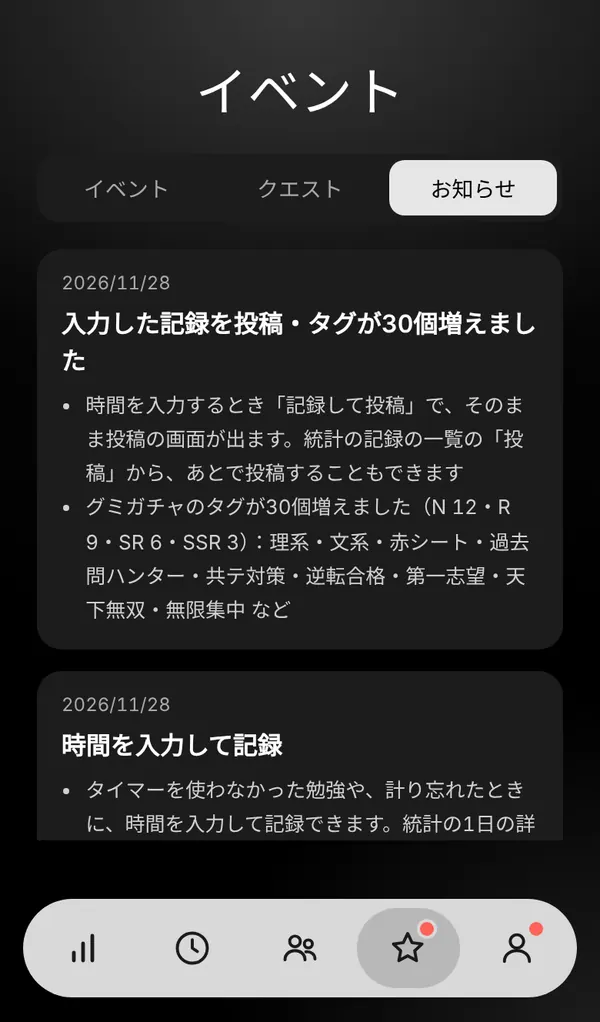
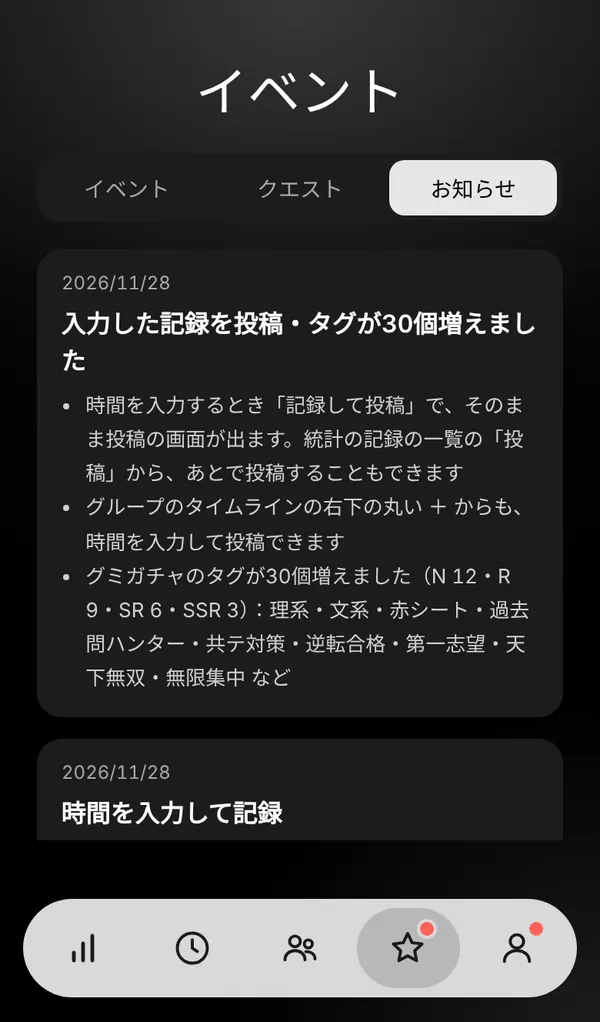
タイムラインの右下に「時間を入力して投稿」の丸いボタン
- グループのタイムラインの右下に丸い ＋（スクロールしても右下に残る）。押すと時間を入力する画面（記録して投稿）
- 使い方・お知らせに追記

Claude-Session: https://claude.ai/code/session_01YBFuc7q2NdYfEsqi2uB9gm

Changed region(s): [[0.06, 0.4853, 0.96, 0.819], [0.63, 0.7583, 0.9, 0.819]]

diff --git a/src/pages/group/timeline.ts b/src/pages/group/timeline.ts
@@ -1,6 +1,7 @@
 // ⑦ グループのタイムライン・ランキング、投稿の返信、⑨ グループの設定・メンバー の画面。
 
 import { api } from '../../cloud/api';
+import { openManual } from '../manual';
 import { count, one, range as numRange, unitById, type Unit } from '../../units';
 import { bannerHtml, paintBanners } from '../banner';
 import { rankKeys, type Group, type Member } from '../../cloud/groups';
@@ -143,9 +144,15 @@ export async function timelineScreen(nav: Nav, gid: string): Promise<Screen> {
         <button type="button" data-tab="chat">チャット<span class="tab-dot" data-chat-dot hidden></span></button>
       </div>
       <div data-body><div class="sns-loading">読み込んでいます…</div></div>
+      <button type="button" class="fab" data-manual-post aria-label="時間を入力して記録・投稿" hidden>
+        <svg viewBox="0 0 24 24" width="24" height="24" aria-hidden="true"><path d="M12 5v14M5 12h14" stroke="currentColor" stroke-width="2.4" stroke-linecap="round"/></svg>
+      </button>
     </div>`);
   const body = $('[data-body]', el);
   const title = $('.switch-title', el);
+  // 右下の丸いボタン：時間を入力して記録し、そのまま投稿する
+  const fab = $<HTMLButtonElement>('[data-manual-post]', el);
+  fab.onclick = () => openManual();
   const titleText = $('.t', title);
 
   // チャットは入力中の文字を消さないように、一度作ったものを出し入れする
@@ -157,6 +164,7 @@ export async function timelineScreen(nav: Nav, gid: string): Promise<Screen> {
     el.querySelectorAll<HTMLElement>('[data-tab]').forEach((b) => b.setAttribute('aria-pressed', String(b.dataset.tab === tab)));
     // チャットのときは画面の高さいっぱいに広げて、入力欄をいちばん下に置く
     el.classList.toggle('fill', tab === 'chat');
+    fab.hidden = tab !== 'timeline';
     body.classList.toggle('chat-on', tab === 'chat');
     if (tab === 'chat') {
       chatDot.hidden = true;

diff --git a/src/help/content.ts b/src/help/content.ts
@@ -325,6 +325,7 @@ export const CHAPTERS: Chapter[] = [
         id: 'post',
         title: '投稿・いいね・返信',
         blocks: [
+          { p: 'タイムラインの右下の丸い ＋ を押すと、時間を入力して記録し、そのまま投稿できます（タイマーを使わなかった勉強など）。' },
           { p: 'ログインしていると、finish したあとに投稿の画面が出ます。グループに見せるもの（教材・番号・1問ごとの時間・離脱）を選び、ひとことを書いて投稿します。' },
           { img: 'compose', marks: ['グループに出すもの', 'ひとこと（なくてもいい）', '投稿先のグループ', '投稿する'] },
           { img: 'group_timeline', marks: ['グループ名。押すとほかのグループへ切り替え', 'タイムライン・ランキング・チャット', '教材と番号', 'いいね', '返信', 'グループの設定（招待コード・メンバー）'] },

diff --git a/src/news.ts b/src/news.ts
@@ -15,6 +15,7 @@ export const NEWS: News[] = [
     title: '入力した記録を投稿・タグが30個増えました',
     items: [
       '時間を入力するとき「記録して投稿」で、そのまま投稿の画面が出ます。統計の記録の一覧の「投稿」から、あとで投稿することもできます',
+      'グループのタイムラインの右下の丸い ＋ からも、時間を入力して投稿できます',
       'グミガチャのタグが30個増えました（N 12・R 9・SR 6・SSR 3）：理系・文系・赤シート・過去問ハンター・共テ対策・逆転合格・第一志望・天下無双・無限集中 など',
     ],
   },

diff --git a/src/style.css b/src/style.css
@@ -7219,3 +7219,25 @@ button.ev-season {
     animation: none;
   }
 }
+
+/* タイムラインの右下の丸いボタン（時間を入力して記録・投稿）。スクロールしても右下に残る */
+.fab {
+  position: sticky;
+  bottom: 6px;
+  z-index: 3;
+  align-self: flex-end;
+  width: 46px;
+  height: 46px;
+  margin: -8px 2px 0 0;
+  border-radius: 50%;
+  background: var(--start-bg);
+  color: var(--start-ink);
+  display: flex;
+  align-items: center;
+  justify-content: center;
+  box-shadow: 0 6px 18px rgba(0, 0, 0, 0.55);
+}
+
+.fab:active {
+  transform: scale(0.94);
+}
